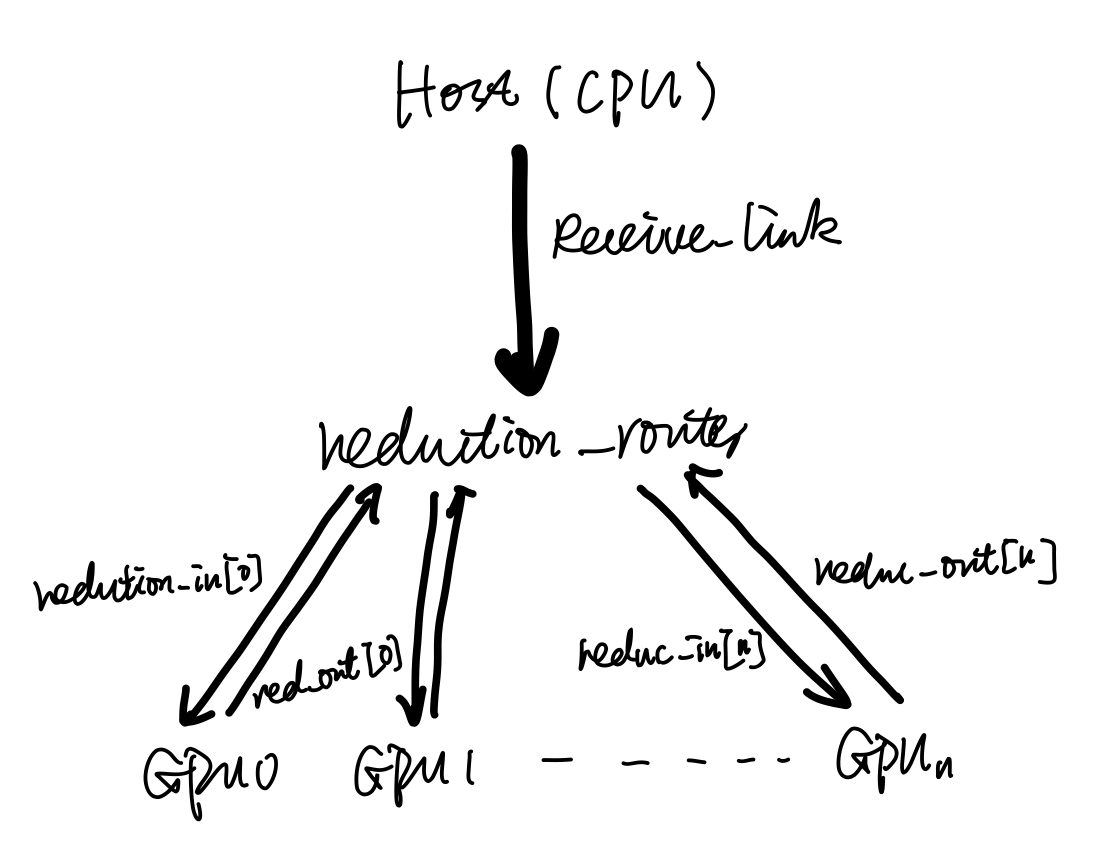
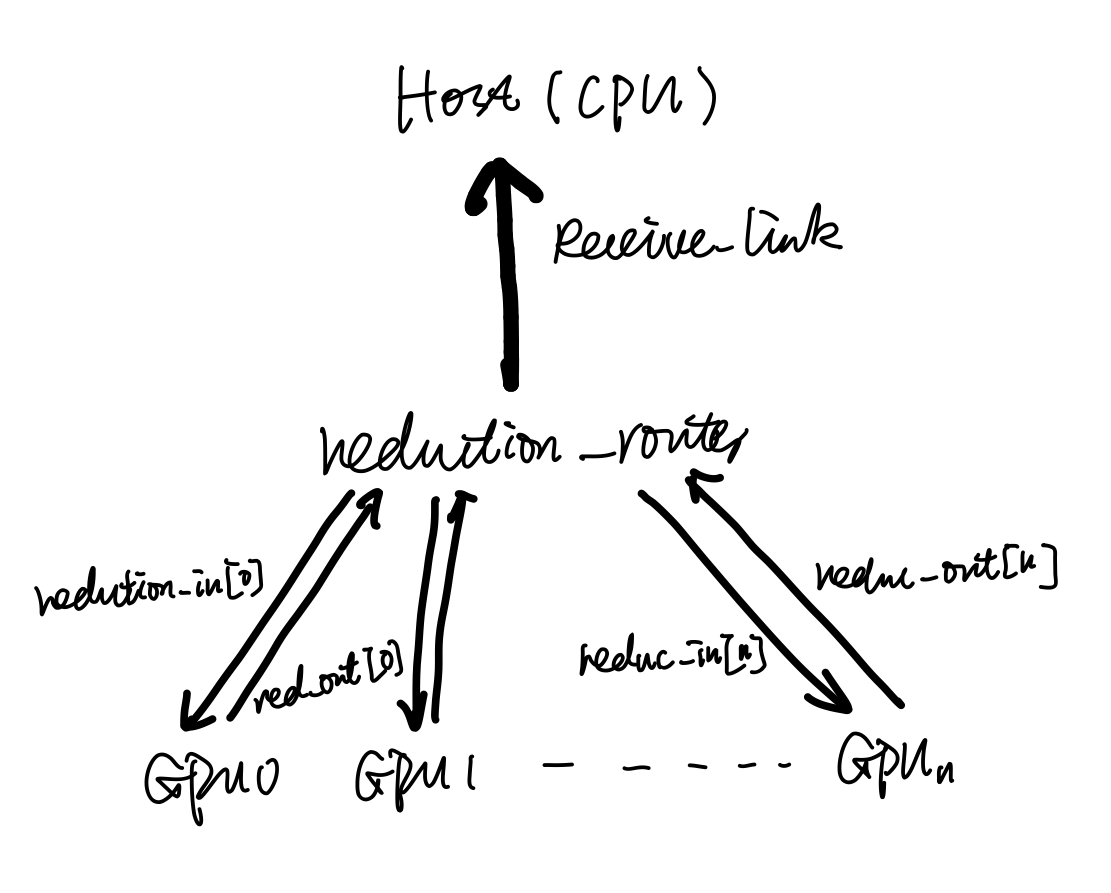
= =

diff --git a/_posts/2017-11-30-Groute.md b/_posts/2017-11-30-Groute.md
@@ -14,6 +14,14 @@ Groute uses adaptive CC. On single machine, each thread takes an edge and does a
 One feature of Groute, which is also heavily used in Groute CC is its data transfer & compute pipeline. So the data are divided into chunks and each chunks are distributed in a round robin way to all the GPUs. Each GPU, after receiving the first chunk of data, it can start to do computation on that chunk of data without having to wait all the assigned data finishing transferring.The data tranfer and data computation can happen concurrently. GPU has two indepentant MMU to do data tranferring without interfering computation parts.
 
 To support pipelining, there are several important data structure needed to understand. See below figure from a soul painter:
+First Router is abstraction for communication and links is an abstraction connecting physical devices and routers. Then naive idea of the following structure used in CC is that: 
+In input\_router, send\_link connects host and input\-router and is used for sending data, edges\_in[0]...edges\_in[N] connect input\_router and GPUs and is used for receiving data. 
+![](https://github.com/YuxinxinChen/YuxinxinChen.github.io/blob/master/images/groute_input.png)
+In reduction\_router, receive\_link connects host and reduction\_router for receiving data, reduction\_in[0]...reduction\_in[N] connects reduction\_router and GPUs for sending data. Here there is no link sending back from reduction\_router to host. So those reduction\_in[0]...reduction\_in[N] will be used to send data around GPUs and reduction\_out[0]...reduction\_out[N] connect reduction\_router for receiving data from other GPUs. So reduction\_router is basically used for communication between GPUs and send the final result to Host(CPU) when done.
+![](https://github.com/YuxinxinChen/YuxinxinChen.github.io/blob/master/images/groute_reduct.png)
+
+A detail data structure help understand. 
+
 ![](https://github.com/YuxinxinChen/YuxinxinChen.github.io/blob/master/images/groute_datastruct.png)
 
 
